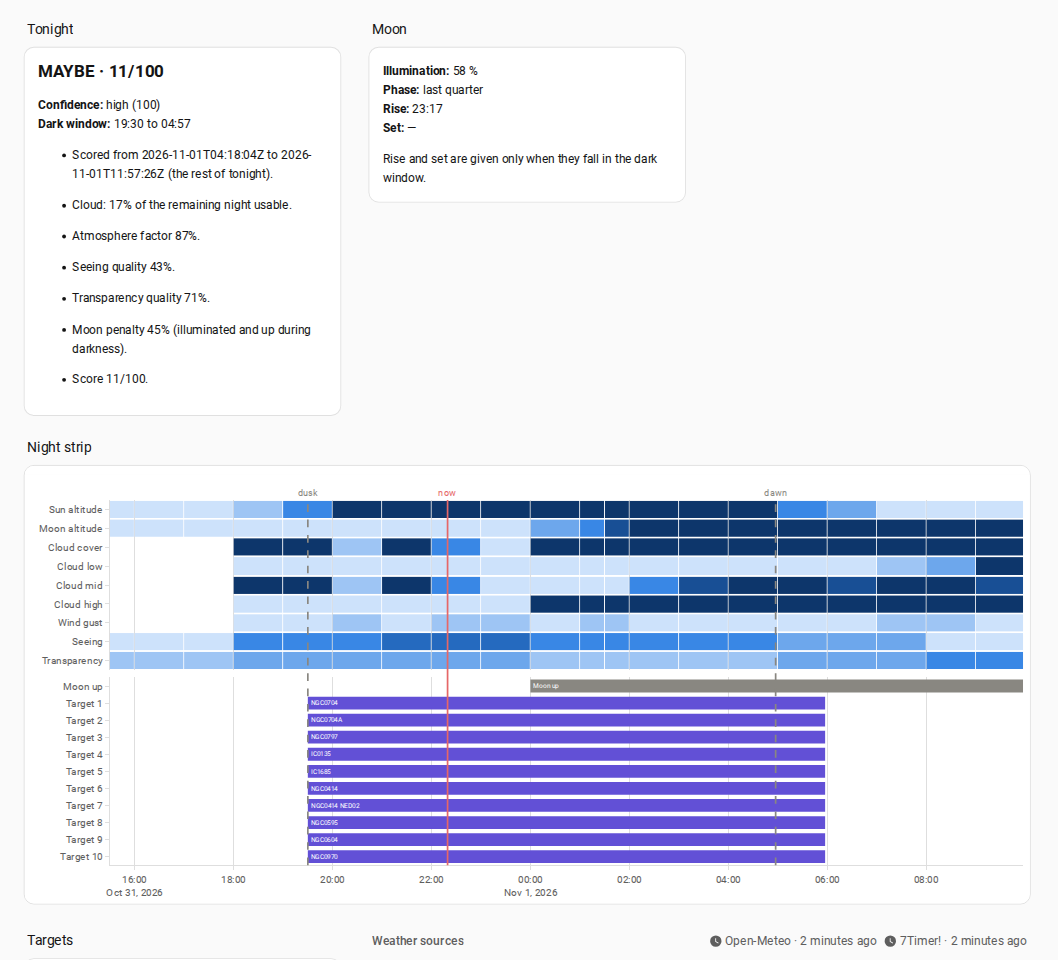
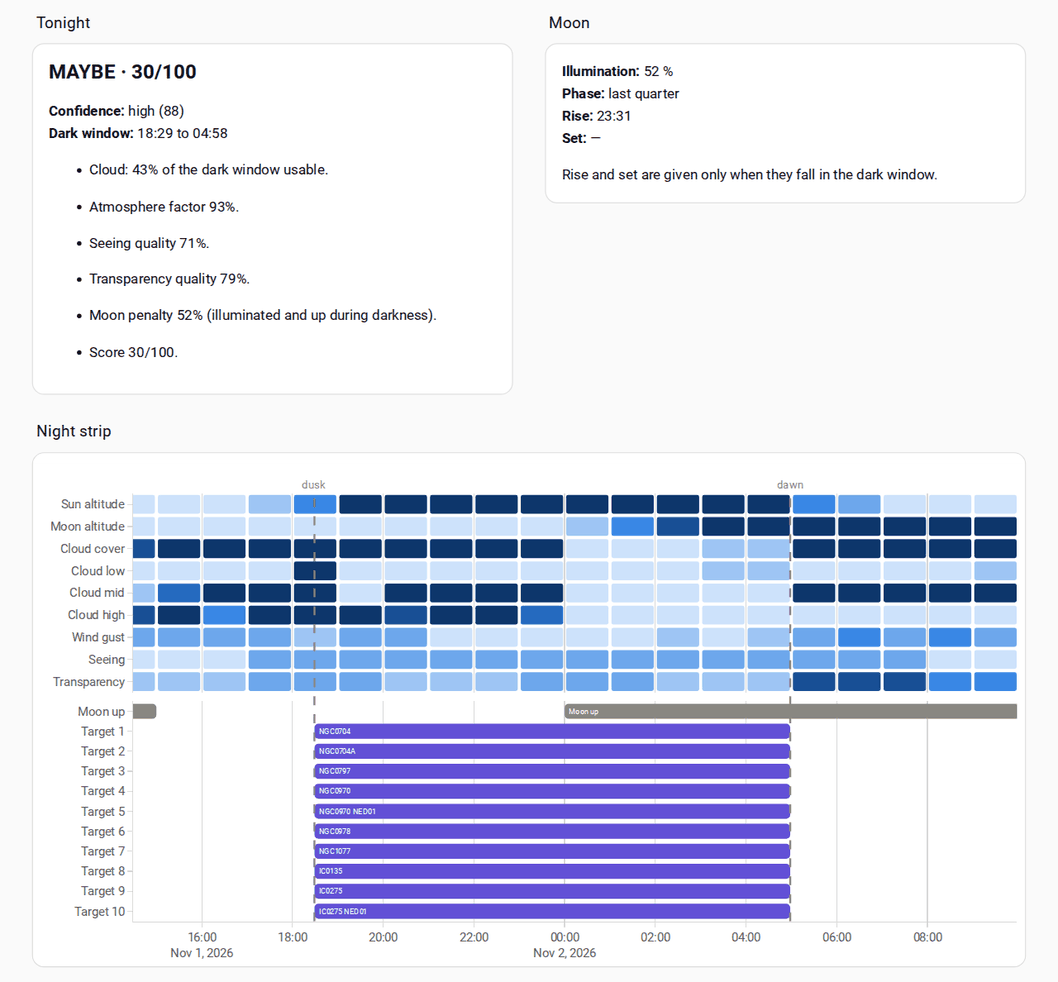
night-strip-rounded-cells — the night strip's cells and lane bars have rounded corners like the reference rendering (#145)
* docs: brainstorm night-strip-rounded-cells (#143)

* docs: spec delta for night-strip-rounded-cells (#143)

* docs: tasks for night-strip-rounded-cells (#143)

Route: lets-minimal, because #143 is Size S, its Relevant code is existing files, and its scope leaves the epic's plotly-graph-card decision (ADR-0026) unchanged, so it relies on no shared decision.

* feat: draw the night strip's condition rows as one bar trace (#143)

* feat: leave a null hour on the night strip with no cell (#143)

* feat: colour each night strip cell from its band on the seven blues (#143)

* feat: round the night strip's cells and lane bars (#143)

* test: check night strip hover on the rows bar trace (#143)

* docs: refresh the night dashboard screenshot with rounded cells (#143)

* fix: keep every night strip row label when a row has no data (#143)

* chore: archive night-strip-rounded-cells (#143)

diff --git a/tests/test_night_dashboard_doc.py b/tests/test_night_dashboard_doc.py
@@ -391,6 +391,11 @@ def _traces(card: dict[str, Any], kind: str) -> list[dict[str, Any]]:
     return [e for e in card["entities"] if e.get("type") == kind]
 
 
+def _trace_on(card: dict[str, Any], axis: str) -> dict[str, Any]:
+    [trace] = [e for e in card["entities"] if e.get("yaxis") == axis]
+    return trace
+
+
 def test_strip_rows_are_the_nine_timeline_sensors_in_order(dashboard: dict[str, Any]) -> None:
     rows = _ROW.findall(strip_card(dashboard)["pier_timeline"])
     assert [label for label, _ in rows] == _ROW_LABELS
@@ -399,32 +404,49 @@ def test_strip_rows_are_the_nine_timeline_sensors_in_order(dashboard: dict[str, 
     ]
 
 
-def test_strip_rows_read_forecast_into_one_heatmap(dashboard: dict[str, Any]) -> None:
+def test_strip_rows_read_forecast_into_one_bar_trace(dashboard: dict[str, Any]) -> None:
     card = strip_card(dashboard)
     assert ".attributes?.forecast" in card["pier_timeline"]
-    [heatmap] = _traces(card, "heatmap")
-    assert heatmap["entity"] == ""
-    assert (heatmap["x"], heatmap["y"], heatmap["z"]) == (
-        "$ex vars.strip.x",
-        "$ex vars.strip.y",
-        "$ex vars.strip.z",
+    assert _traces(card, "heatmap") == []
+    rows = _trace_on(card, "y")
+    assert (rows["entity"], rows["type"], rows["orientation"]) == ("", "bar", "h")
+    assert (rows["y"], rows["base"], rows["x"]) == (
+        "$ex vars.strip.cells.map((c) => c.y)",
+        "$ex vars.strip.cells.map((c) => c.base)",
+        "$ex vars.strip.cells.map((c) => c.x)",
     )
+    timeline = card["pier_timeline"]
+    assert "y: label" in timeline
+    assert "base: new Date(Date.parse(h) + trim)" in timeline
+    assert "x: hour - 2 * trim" in timeline
     assert card["layout"]["yaxis"]["categoryarray"] == _ROW_LABELS
 
 
-def test_strip_rows_centre_each_cell_and_leave_a_null_as_a_gap(dashboard: dict[str, Any]) -> None:
+def test_strip_rows_keep_all_nine_labels_when_a_row_has_no_data(dashboard: dict[str, Any]) -> None:
+    # A row with every hour null has no bar, so autorange would fit the axis to the other rows.
+    yaxis = strip_card(dashboard)["layout"]["yaxis"]
+    assert yaxis["range"] == [len(_ROW_LABELS) - 0.5, -0.5]
+    assert "autorange" not in yaxis
+
+
+def test_strip_rows_trim_each_cell_and_leave_a_null_as_a_gap(dashboard: dict[str, Any]) -> None:
     card = strip_card(dashboard)
-    assert "Date.parse(h) + 30 * 60 * 1000" in card["pier_timeline"]
-    assert "v == null ? null : band(v)" in card["pier_timeline"]
-    [heatmap] = _traces(card, "heatmap")
-    assert heatmap["hoverongaps"] is False
+    timeline = card["pier_timeline"]
+    assert "trim = 2 * 60 * 1000" in timeline
+    # A null hour is dropped before the trace sees it, so it draws no bar and hover finds nothing.
+    assert ".filter((h) => values[i].get(h) != null)" in timeline
+    assert "no data" not in timeline
+    assert "hoverongaps" not in _trace_on(card, "y")
 
 
 def test_strip_rows_shade_on_the_seven_step_ramp(dashboard: dict[str, Any]) -> None:
-    [heatmap] = _traces(strip_card(dashboard), "heatmap")
-    colours = list(dict.fromkeys(colour for _, colour in heatmap["colorscale"]))
-    assert colours == _RAMP
-    assert (heatmap["zmin"], heatmap["zmax"]) == (-0.5, 6.5)
+    card = strip_card(dashboard)
+    timeline = card["pier_timeline"]
+    blues = re.search(r"const blues = \[([^\]]+)\]", timeline)
+    assert blues is not None
+    assert re.findall(r'"(#[0-9a-f]{6})"', blues.group(1)) == _RAMP
+    assert "color: blues[band(v)]" in timeline
+    assert _trace_on(card, "y")["marker"]["color"] == "$ex vars.strip.cells.map((c) => c.color)"
 
 
 def test_strip_axis_spans_tonight_in_home_assistant_time(dashboard: dict[str, Any]) -> None:
@@ -479,12 +501,21 @@ def test_strip_lanes_put_moon_up_over_hours_above_the_horizon(dashboard: dict[st
 
 def test_strip_lanes_are_bars_on_their_own_axis(dashboard: dict[str, Any]) -> None:
     card = strip_card(dashboard)
-    [bars] = _traces(card, "bar")
-    assert (bars["orientation"], bars["yaxis"]) == ("h", "y2")
+    bars = _trace_on(card, "y2")
+    assert (bars["type"], bars["orientation"]) == ("bar", "h")
     assert bars["base"] == "$ex vars.bars.map((b) => b.start)"
     yaxis2 = card["layout"]["yaxis2"]
     assert yaxis2["categoryarray"] == "$ex vars.lanes"
     assert yaxis2["overlaying"] == "free"
+
+
+def test_strip_cells_and_lane_bars_have_rounded_corners(dashboard: dict[str, Any]) -> None:
+    card = strip_card(dashboard)
+    rows, lanes = _trace_on(card, "y"), _trace_on(card, "y2")
+    assert (rows["marker"]["cornerradius"], rows["width"]) == (2, 0.85)
+    assert lanes["marker"]["cornerradius"] == 4
+    # Overlay keeps cells on the same row at their own base, not grouped side by side.
+    assert card["layout"]["barmode"] == "overlay"
 
 
 def test_strip_lanes_keep_one_height_whatever_their_number(dashboard: dict[str, Any]) -> None:
@@ -609,9 +640,10 @@ def test_install_steps_say_how_home_assistant_writes_the_pier_id(page_before_yam
 
 def test_strip_rows_hover_with_the_start_of_the_hour(dashboard: dict[str, Any]) -> None:
     card = strip_card(dashboard)
-    [heatmap] = _traces(card, "heatmap")
-    # x is the cell's centre, half an hour after the hour the value is for.
-    assert "%{x" not in heatmap["hovertemplate"]
+    rows = _trace_on(card, "y")
+    # x is the cell's length, not the hour the value is for.
+    assert "%{x" not in rows["hovertemplate"]
+    assert rows["text"] == "$ex vars.strip.cells.map((c) => c.text)"
     assert "timeZone: hass.config.time_zone" in card["pier_timeline"]
     assert "clock.format(new Date(h))" in card["pier_timeline"]
 
@@ -619,4 +651,4 @@ def test_strip_rows_hover_with_the_start_of_the_hour(dashboard: dict[str, Any]) 
 def test_strip_lanes_are_hidden_without_a_timeline(dashboard: dict[str, Any]) -> None:
     # Offline, Home Assistant drops the forecast, and the strip shows no lane at all.
     yaxis2 = strip_card(dashboard)["layout"]["yaxis2"]
-    assert yaxis2["visible"] == "$ex vars.strip.x.length > 0"
+    assert yaxis2["visible"] == "$ex vars.strip.moon.length > 0"

diff --git a/docs/night-dashboard.md b/docs/night-dashboard.md
@@ -8,7 +8,7 @@ condition, with dusk, dawn, the moon and your targets on the same time line.
 The dashboard reads only the entities PierPressure already publishes. You paste
 it in once, and it updates itself.
 
-![The night dashboard: the Tonight and Moon cards, then the night strip with nine condition rows, a Moon up lane and ten target lanes, crossed by dusk, now and dawn lines](images/night-dashboard.png)
+![The night dashboard: the Tonight and Moon cards, then the night strip with nine rows of rounded hour cells, a Moon up lane and ten target lanes, crossed by dusk and dawn lines](images/night-dashboard.png)
 
 ## What the dashboard shows
 
@@ -26,7 +26,8 @@ The strip runs from 4 hours before dusk to 5 hours after dawn. Times are in
 your Home Assistant time zone. On a night with no astronomical darkness, it runs
 from 6 hours before now to 18 hours after.
 
-Each cell is one hour. Darker means more of what the row names:
+Each cell is one hour, drawn as a rounded block with a small gap to the next.
+Darker means more of what the row names:
 
 | Row | Lightest | Darkest |
 |---|---|---|
@@ -36,8 +37,8 @@ Each cell is one hour. Darker means more of what the row names:
 | Wind gust | Calm | Gusts of 42 km/h or more |
 | Seeing, Transparency | Excellent | Poor. For these two rows, darker means worse. |
 
-An empty cell means the weather source has no value for that hour. Hover over a
-cell to see its value.
+A blank space in a row means the weather source has no value for that hour.
+Hover over a cell to see its value.
 
 Under the rows, the **Moon up** lane has a bar for each stretch of hours when the
 moon is above the horizon. Each target lane has a bar from the start to the end
@@ -170,6 +171,8 @@ views:
             time_zone: server
             pier_timeline: |
               $ex {
+                // The seven blues, lightest to darkest, that bands 0 to 6 are drawn in.
+                const blues = ["#cde2fb", "#9ec5f4", "#6da7ec", "#3987e5", "#256abf", "#184f95", "#0d366b"];
                 const ramp = (v, step) => Math.min(6, Math.floor(v / step));
                 const quality = (q) => Math.min(6, Math.round((1 - q) * 7));
                 // Top to bottom: row label, timeline sensor, unit, and the band 0 (lightest) to 6 (darkest).
@@ -192,18 +195,22 @@ views:
                 const clock = new Intl.DateTimeFormat(undefined, {
                   hour: "2-digit", minute: "2-digit", timeZone: hass.config.time_zone,
                 });
+                const hour = 60 * 60 * 1000, trim = 2 * 60 * 1000;
                 vars.strip = {
-                  // A value covers the hour that starts at its datetime, so its cell is centred on the half hour.
-                  x: hours.map((h) => new Date(Date.parse(h) + 30 * 60 * 1000)),
-                  y: rows.map(([label]) => label),
-                  z: rows.map(([, , , band], i) => hours.map((h) => {
-                    const v = values[i].get(h);
-                    return v == null ? null : band(v);
-                  })),
-                  text: rows.map(([, , unit], i) => hours.map((h) => {
-                    const v = values[i].get(h);
-                    return `${clock.format(new Date(h))}: ${v == null ? "no data" : `${v}${unit}`}`;
-                  })),
+                  // A value covers the hour that starts at its datetime. Each cell is a bar over that hour,
+                  // trimmed at both ends so neighbouring cells keep a gap. A null hour has no bar at all.
+                  cells: rows.flatMap(([label, , unit, band], i) => hours
+                    .filter((h) => values[i].get(h) != null)
+                    .map((h) => {
+                      const v = values[i].get(h);
+                      return {
+                        y: label,
+                        base: new Date(Date.parse(h) + trim),
+                        x: hour - 2 * trim,
+                        color: blues[band(v)],
+                        text: `${clock.format(new Date(h))}: ${v}${unit}`,
+                      };
+                    })),
                   moon: hours.map((h) => [new Date(h), values[1].get(h)]),
                 };
               }
@@ -259,34 +266,19 @@ views:
             entities:
               - entity: ""
                 name: Night strip
-                type: heatmap
+                type: bar
+                orientation: h
                 yaxis: y
-                x: $ex vars.strip.x
-                y: $ex vars.strip.y
-                z: $ex vars.strip.z
-                text: $ex vars.strip.text
-                zmin: -0.5
-                zmax: 6.5
-                showscale: false
-                xgap: 1
-                ygap: 2
-                hoverongaps: false
+                y: $ex vars.strip.cells.map((c) => c.y)
+                base: $ex vars.strip.cells.map((c) => c.base)
+                x: $ex vars.strip.cells.map((c) => c.x)
+                width: 0.85
+                text: $ex vars.strip.cells.map((c) => c.text)
+                textposition: none
+                marker:
+                  color: $ex vars.strip.cells.map((c) => c.color)
+                  cornerradius: 2
                 hovertemplate: "%{y}, the hour from %{text}<extra></extra>"
-                colorscale:
-                  - [0, "#cde2fb"]
-                  - [0.1428, "#cde2fb"]
-                  - [0.1428, "#9ec5f4"]
-                  - [0.2857, "#9ec5f4"]
-                  - [0.2857, "#6da7ec"]
-                  - [0.4285, "#6da7ec"]
-                  - [0.4285, "#3987e5"]
-                  - [0.5714, "#3987e5"]
-                  - [0.5714, "#256abf"]
-                  - [0.7142, "#256abf"]
-                  - [0.7142, "#184f95"]
-                  - [0.8571, "#184f95"]
-                  - [0.8571, "#0d366b"]
-                  - [1, "#0d366b"]
               - entity: ""
                 name: Lanes
                 type: bar
@@ -301,11 +293,13 @@ views:
                 marker:
                   color: >-
                     $ex vars.bars.map((b) => (b.lane === "Moon up" ? "#898781" : "#6250d6"))
+                  cornerradius: 4
                 hovertemplate: "%{text}<extra></extra>"
             layout:
               height: $ex vars.height
               margin: { t: 30, b: 50, l: 100, r: 10 }
               showlegend: false
+              barmode: overlay
               bargap: 0.25
               xaxis:
                 type: date
@@ -317,14 +311,15 @@ views:
                 type: category
                 categoryorder: array
                 categoryarray: [Sun altitude, Moon altitude, Cloud cover, Cloud low, Cloud mid, Cloud high, Wind gust, Seeing, Transparency]
-                autorange: reversed
+                # Top to bottom, fixed, so a row with no data keeps its label.
+                range: [8.5, -0.5]
                 fixedrange: true
                 showgrid: false
               yaxis2:
                 # The card overlays extra y-axes on the first by default; the lanes need their own band.
                 overlaying: free
                 # Offline there is no timeline, so no Moon up lane to label.
-                visible: $ex vars.strip.x.length > 0
+                visible: $ex vars.strip.moon.length > 0
                 side: left
                 anchor: x
                 domain: $ex [0, vars.split]

diff --git a/openspec/changes/archive/2026-11-01-night-strip-rounded-cells/brainstorm.md b/openspec/changes/archive/2026-11-01-night-strip-rounded-cells/brainstorm.md
@@ -1,0 +1,29 @@
+**Why:** The night strip's cells and lane bars are square because the strip is a heatmap, which renders as one raster image; redrawing each hour as a bar gives the rounded cells of the reference rendering now that the strip's data and layout are settled.
+
+## Story
+
+#143 night-strip-rounded-cells — the night strip's cells and lane bars have rounded corners like the reference rendering, https://github.com/andrewduckett/pier-pressure/issues/143
+
+## Decisions
+
+| # | Question | Answer | Source |
+|---|---|---|---|
+| D1 | What changes? | Only the `custom:plotly-graph` card in `docs/night-dashboard.md`, its prose, its screenshot and the doc tests. No entity, ADR or core change. | Evidence: #143 packet |
+| D2 | How are the cells drawn? | One horizontal bar trace on the `y` axis with one bar per hour per row: `y` the row label, `base` the hour start plus the trim, `x` the hour length minus twice the trim, per-point `marker.color` from the same seven blues, `marker.cornerradius: 2`. One trace rather than nine. | Evidence: #143 packet |
+| D3 | Corner radii? | 2 px for cells, 4 px for lane bars, as the mock's CSS sets them. | Evidence: `night-strip-mock.html` on the `assets` branch |
+| D4 | Gap between cells along the hour? | Trim 2 minutes off each end of every hour bar. | Assumption |
+| D5 | Gap between rows? | The rows trace sets `width: 0.85` of a row, so rows keep a gap like the mock's instead of inheriting the lanes' `bargap: 0.25`. | Assumption |
+| D6 | A null hour? | No bar at all for that hour: the gap stays empty and hover does not fire there. `hoverongaps` goes away with the heatmap. | Evidence: night-dashboard spec, "A null hour is a gap" |
+| D7 | Hover? | Unchanged text: the row, then "the hour from HH:MM: value", carried on each bar's `text`. | Evidence: #143 packet |
+| D8 | Bar mode? | `barmode: overlay`, so bars at the same row with different bases are not grouped side by side. | Evidence: #143 packet |
+| D9 | The six tests that assert a heatmap trace and exactly one bar trace? | Rewritten to assert the new shape: a rows bar trace with `marker.cornerradius: 2`, a lanes trace with 4, the ramp colours, the per-hour base and trim, and the null filter. The rest of the file is untouched. | Evidence: `tests/test_night_dashboard_doc.py` |
+| D10 | Spec? | One ADDED requirement on `night-dashboard`: cells and lane bars have rounded corners, the radius checked in the YAML by the test and the rendering by the Docker check. | Assumption |
+| D11 | Who checks it in a real Home Assistant? | The agent runs `mise run dashboard-check`, confirms the corners and hover in the browser, and refreshes `docs/images/night-dashboard.png`. The user sees the screenshot in the pull request. | User |
+| D12 | The "Versions it was checked with" line? | Stays as is unless the check runs on other versions than Home Assistant 2026.10.4 and Plotly Graph Card v4.0.2. | Evidence: `docs/night-dashboard.md`, `compose.yaml` |
+| D13 | ADR-0026? | Unchanged. Its decision is the card, not the trace type. | Evidence: #143 packet |
+
+## Changes from the story
+
+None. The packet's "tests stay green" is read as the tests passing after the heatmap assertions are rewritten for bars (D9), since six of them name the heatmap trace.
+
+Confirmed by user: yes

diff --git a/openspec/changes/archive/2026-11-01-night-strip-rounded-cells/tasks.md b/openspec/changes/archive/2026-11-01-night-strip-rounded-cells/tasks.md
@@ -1,0 +1,8 @@
+## 1. Rounded cells on the night strip
+
+- [x] 1.1 [medium] The strip's condition rows are one horizontal `bar` trace on axis `y`, not a heatmap: `pier_timeline` builds one cell per row per hour with the row label as `y`, the hour start plus the trim as `base`, the hour length minus twice the trim as `x`, and the band as its colour, and the heatmap trace is gone. Rewrite `test_strip_rows_read_forecast_into_one_heatmap` for the bar trace, and make `test_strip_lanes_are_bars_on_their_own_axis` pick the lanes trace by `yaxis: y2` (verify: uv run pytest tests/test_night_dashboard_doc.py -k "strip_rows or strip_lanes") (✓ uv run pytest tests/test_night_dashboard_doc.py -k "one_bar_trace or strip_lanes" passed; the other strip_rows tests belong to 1.2, 1.3 and 1.5)
+- [x] 1.2 [easy] A null hour leaves no bar: a cell whose value is null is dropped before the trace sees it, the trim is 2 minutes each side, and `hoverongaps` is gone with the heatmap. Rewrite `test_strip_rows_centre_each_cell_and_leave_a_null_as_a_gap` to assert the trim and the null filter (verify: uv run pytest tests/test_night_dashboard_doc.py -k "null_as_a_gap") (✓ uv run pytest tests/test_night_dashboard_doc.py -k "null_as_a_gap" passed)
+- [x] 1.3 [easy] Each cell's colour is its band's step on the same seven blues, lightest to darkest, as per-point `marker.color`. Rewrite `test_strip_rows_shade_on_the_seven_step_ramp` to read the ramp from `pier_timeline` instead of a colorscale (verify: uv run pytest tests/test_night_dashboard_doc.py -k "seven_step_ramp") (✓ uv run pytest tests/test_night_dashboard_doc.py -k "seven_step_ramp" passed)
+- [x] 1.4 [easy] Cells and lane bars have rounded corners: the rows trace sets `marker.cornerradius: 2` and `width: 0.85`, the lanes trace sets `marker.cornerradius: 4`, and the layout sets `barmode: overlay`. Add `test_strip_cells_and_lane_bars_have_rounded_corners` (verify: uv run pytest tests/test_night_dashboard_doc.py -k "rounded_corners") (✓ uv run pytest tests/test_night_dashboard_doc.py -k "rounded_corners" passed)
+- [x] 1.5 [easy] Hovering a cell still shows the row, the hour it starts and the value: each cell carries its `text`, and the rows trace keeps the hovertemplate without `%{x`. Point `test_strip_rows_hover_with_the_start_of_the_hour` at the rows trace (verify: uv run pytest tests/test_night_dashboard_doc.py -k "hover_with_the_start") (✓ uv run pytest tests/test_night_dashboard_doc.py -k "hover_with_the_start" passed)
+- [x] 1.6 [complex] In the Docker check (`mise run dashboard-check`), every cell and lane bar renders with rounded corners, a null hour is a gap, hovering a cell shows its hour and value, and nothing else on the page changed. Refresh `docs/images/night-dashboard.png` from that check, update the "How to read the night strip" prose where the rendering changed, and keep the "Versions it was checked with" line true (verify: mise run check) (✓ mise run check passed; Docker check: rounded cells and lane bars, an injected null Seeing hour left a gap with no hover, a cell hover showed its hour and value, dusk, dawn and now shapes present)

diff --git a/openspec/specs/night-dashboard/spec.md b/openspec/specs/night-dashboard/spec.md
@@ -148,3 +148,19 @@ The dashboard YAML SHALL be checked in a real Home Assistant fed by a running Pi
 #### Scenario: The page shows the result
 - **WHEN** `docs/night-dashboard.md` is rendered
 - **THEN** it shows an image stored under `docs/images/` of the dashboard from that check
+
+### Requirement: Cells and lane bars have rounded corners
+Each hour cell in the strip's condition rows and each bar in the Moon up and target lanes SHALL be drawn with rounded corners: a radius of 2 px for a cell and 4 px for a lane bar. Rounding SHALL not change what the cells show: a null hour stays a gap, and hovering over a cell still shows the hour and the value.
+
+#### Scenario: The YAML rounds cells and lane bars
+- **WHEN** the strip's traces are read from the dashboard YAML
+- **THEN** the trace that draws the condition rows sets a corner radius of 2 px
+- **AND** the trace that draws the lanes sets a corner radius of 4 px
+
+#### Scenario: A null hour stays a gap after rounding
+- **WHEN** the Seeing forecast holds `{"datetime": "2026-10-31T16:00:00Z", "value": null}`
+- **THEN** the Seeing row draws no cell for 16:00 UTC, and hovering there shows nothing
+
+#### Scenario: The check shows rounded corners
+- **WHEN** the documented check renders the dashboard in a real Home Assistant
+- **THEN** every cell and every lane bar has visibly rounded corners, and the screenshot on the page shows them

diff --git a/openspec/changes/archive/2026-11-01-night-strip-rounded-cells/specs/night-dashboard/spec.md b/openspec/changes/archive/2026-11-01-night-strip-rounded-cells/specs/night-dashboard/spec.md
@@ -1,0 +1,17 @@
+## ADDED Requirements
+
+### Requirement: Cells and lane bars have rounded corners
+Each hour cell in the strip's condition rows and each bar in the Moon up and target lanes SHALL be drawn with rounded corners: a radius of 2 px for a cell and 4 px for a lane bar. Rounding SHALL not change what the cells show: a null hour stays a gap, and hovering over a cell still shows the hour and the value.
+
+#### Scenario: The YAML rounds cells and lane bars
+- **WHEN** the strip's traces are read from the dashboard YAML
+- **THEN** the trace that draws the condition rows sets a corner radius of 2 px
+- **AND** the trace that draws the lanes sets a corner radius of 4 px
+
+#### Scenario: A null hour stays a gap after rounding
+- **WHEN** the Seeing forecast holds `{"datetime": "2026-10-31T16:00:00Z", "value": null}`
+- **THEN** the Seeing row draws no cell for 16:00 UTC, and hovering there shows nothing
+
+#### Scenario: The check shows rounded corners
+- **WHEN** the documented check renders the dashboard in a real Home Assistant
+- **THEN** every cell and every lane bar has visibly rounded corners, and the screenshot on the page shows them
